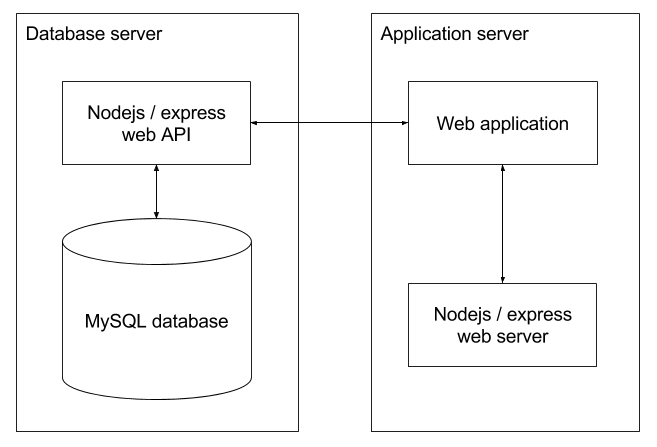
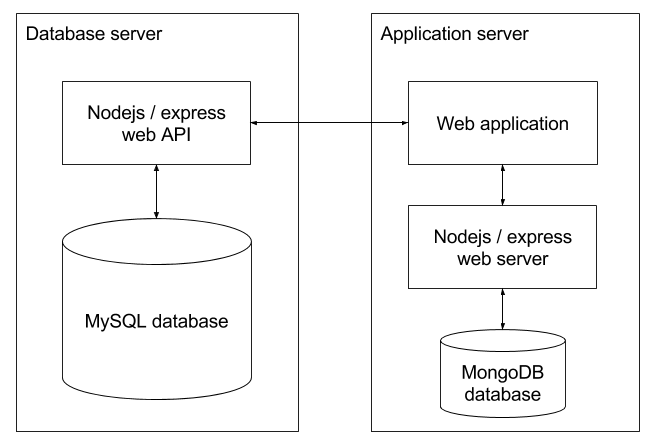
updating tech spec

diff --git a/docs/tech.md b/docs/tech.md
@@ -2,6 +2,8 @@
 
 # Technical Specification
 
+UPDATED: 6th October 2016 - **additions** ~~deletions~~
+
 ## 1 Introduction
 
 ### 1.1 Overview
@@ -11,7 +13,7 @@ This document provides a complete overview of the technical specification Mujo I
 ### 1.2 Related documents
 
 * The [Design specification](design.md) lays out the functionality of the system.
-* The [User requirement specification]() provides the detail of what is required by the user.
+* The [User requirement specification](https://docs.google.com/document/d/1SYVugRCuzjcj8jgR8f8yrp-2E4V5km13pVF3XVbmyXY/edit) provides the detail of what is required by the user.
 
 ### 1.3 Structure
 
@@ -46,14 +48,23 @@ Gets the summary information for the portal:
 ```
 {
   "updated": "YYYY-MM-DD",
-  "count" : {
-    "allpatients" : a,
-    "activepatients" : b,
-    "locations": c,
-    "physios": d,
-    "diagnoses": e,
-    "prescriptions": f
-  }  
+  "count": {
+    "allpatients": a,
+    "activepatients": b,
+    "dischargedpatients": {
+      "reason 1": c,
+      "reason 2": d
+    }
+    "locations": e,
+    "physios": f,
+    "diagnoses": g,
+    "prescriptions": h
+  },
+  "diagnostic": {
+    "age": i,
+    "occupation": j,
+    "diagnoses": k
+  }
 }
 ```
 
@@ -63,10 +74,14 @@ Get the available categories for the top 10 data.
 
 ```
 [
-  "physios",
-  "prescriptions",
-  "diagnoses",
-  ...
+  "locationByNumberOfPatients",
+  "physioByNumberOfPatients",
+  "physioByNumberOfSuccesses",
+  "failureReasonByNumberOfPatients",
+  "deviceByAvgSessionTime",
+  "deviceByBearingLife",
+  "deviceByCableLife",
+  "deviceByLoadFactor"
 ]
 ```
 
@@ -86,6 +101,21 @@ Get the top 10 data for a given category.
 }
 ```
 
+##### 3.2.3.1 GET: /api/top10/all/{category}
+
+**Get the all data for a given category.**
+
+```
+{
+  "title" : "The title",
+  "data" : [
+    {"name" : "The name 1", "value": n1},
+    {"name" : "The name 2", "value": n2},
+    ...
+  ]
+}
+```
+
 #### 3.2.4 GET: /api/distribution/
 
 Get the available categories for the top 10 data.
@@ -95,22 +125,22 @@ Get the available categories for the top 10 data.
   "age",
   "sex",
   "bmi",
-  "timeOfSession"
+  "timeOfSession",
+  "prescribedExerciseFrequency"
 ]
 ```
 
 #### 3.2.5 GET: /api/distribution/{category}
 
-Get the top 10 data for a given category.
+Get the distribution data for a given category.
 
 ```
 {
-  "title" : "The title",
+  "title" : "The title e.g. age distribution",
   "data" : [
-    {"name" : "The name 1", "value": n1},
-    {"name" : "The name 2", "value": n2},
+    {"label" : "0-9", "lower": 0, "value": n1},
+    {"label" : "10-19", "lower": 10, "value": n2},
     ...
-    {"name" : "The name 10", "value": n10}
   ]
 }
 ```
@@ -186,28 +216,96 @@ Returns a full list of diagnoses and counts in the system
 ]
 ```
 
-## 4 Technologies
+#### 3.2.10 GET: /api/sidebar
 
-### 4.1 API
+**Returns the elements in the side bar that the user has permission to view**
+
+```
+["top10", "locations", "distributions", "model"]
+```
+
+## 4 Authentication
+
+### 4.1 Overview
+
+**The web service calls required for Authentication**
+
+### 4.2 User methods
+
+#### 4.2.1 GET: /login
+
+**Returns the login page. All unauthenticated traffic is routed here.**
+
+#### 4.2.2 POST: /login
+
+**Authenticates the user's email and password. Then redirects the user to the page they were originally trying to load, defaulting to /portal**
+
+#### 4.2.3 GET: /changepassword
+
+**Returns the change password screen**
+
+#### 4.2.4 POST: /changepassword
+
+**Changes the user's password**
+
+#### 4.2.5 GET: /signout
+
+**Signs out the user and redirects to the login screen.**
+
+### 4.3 Admin Methods
+
+#### 4.3.1 GET: /admin
+
+**Returns a screen with a list of all currently registered users, with their assigned sites and roles, and links to add, edit and delete.**
+
+#### 4.3.2 GET: /adduser
+
+**Returns a screen to add a user by providing: full name, email address, password, roles and sites.**
+
+#### 4.3.3 POST: /adduser
+
+**Adds the user.**
+
+#### 4.3.4 GET: /delete/:email
+
+**Loads the "are you sure" screen for deleting the user account with the email address :email.**
+
+#### 4.3.5 POST: /delete/:email
+
+**Removes the user with email address :email.**
+
+#### 4.3.6 GET: /edit/:email
+
+**Loads a screen with the user's details to allow changes.**
+
+#### 4.3.7 POST: /edit/:email
+
+**Commits the changes to the user's account.**
+
+## ~~4~~**5** Technologies
+
+### ~~4~~**5**.1 API
 
 The api will be built using [nodejs](https://nodejs.org/en/) and [express](https://expressjs.com/). Communication with the database will be via the npm module [mysql](https://www.npmjs.com/package/mysql).
 
-### 4.2 Web application
+**Authentication will be managed with [passportjs](http://passportjs.org/). With user account stored in a local [MongoDB](https://docs.mongodb.com/) database.**
+
+### ~~4~~**5**.2 Web application
 
 The web app will be served using [nodejs](https://nodejs.org/en/) and [express](https://expressjs.com/). The frontend will be built using [Bootstrap](http://getbootstrap.com/), icons from [Font-awesome](http://fontawesome.io/), side menus using [metisMenu](http://mm.onokumus.com/) and charts using [chart.js](http://www.chartjs.org/).
 
 [NPM](https://www.npmjs.com/) will be the package manager and building and compilation will be managed using [brunch.io](http://brunch.io).
 
-## 5 Testing
+## ~~5~~**6** Testing
 
-### 5.1 Unit testing
+### ~~5~~**6**.1 Unit testing
 
 Unit tests will be built during the construction of the web application. They will be automated via mocha to run prior to build and will also be remotely run on github commit via [travis-ci](https://travis-ci.org/rw251/analytics-portal). Code coverage will be accomplished with [istanbul](http://gotwarlost.github.io/istanbul/).
 
-### 5.2 System Testing
+### ~~5~~**6**.2 System Testing
 
 A system test plan will be produced during construction of the web application and fully signed off before delivery of the software.
 
-## 6 Code hosting
+## ~~6~~**7** Code hosting
 
 All code will be hosted on github at [https://github.com/rw251/analytics-portal](https://github.com/rw251/analytics-portal). Issues, releases and milestones will be tracked here.

diff --git a/docs/design.md b/docs/design.md
@@ -121,6 +121,7 @@ The current planned list of charts is:
 | **Device**               | **Avg session time**   |
 | **Device**               | **Bearing life**       |
 | **Device**               | **Cable life**         |
+| **Device**               | **Load factor**        |
 | **Failure reason**       | **# of patients**      |
 
 **The user can toggle between a table and a bar chart. In table mode they can request to see all categories rather than just the top 10.**
@@ -160,7 +161,7 @@ The number of columns will adapt depending on screen size from a maximum of ~~4~
 
 The user is presented with distributions of key variables.
 
-The current proposal is for histograms for: age, BMI and usage per hour. Also a pie chart for sex.
+The current proposal is for histograms for: age, BMI, ~~and~ usage per hour**, and prescribed exercise frequency**. Also a pie chart for sex.
 
 It is also possible for the user to alter the list of patients displayed in the distributions by adding a series of filters. Precisely what will be useful to filter on is largely dependent on the amount of data captured but it is envisioned that possible filters will include: age, sex, prescription and adherence. `This is considered a nice-to-have feature and priority will be given to other features.`
 
@@ -195,3 +196,32 @@ It will also be possible to specify a patient by one or more of: age, sex, occup
 #### Responsive design
 
 The two column design from the mock-up would collapse to a single column below a certain screen size.
+
+## 3 User management
+
+### 3.1 Overview
+
+**All users are authenticated via a login form. Each user can be assigned to 0, 1 or many device locations. Each user can have 1 or more roles. The current behaviour for the roles is as follows:**
+
+* **admin - this user has the ability to create, edit and delete other users**
+* **mujo - this user can see all parts of the site and no filtering is applied**
+* **operator - for physios: some summary information is hidden / the location page is hidden / where sensible information is filtered to just their patients**
+* **provider - for clinics, vendors etc: some summary information is hidden / where sensible information is filtered to just their site or sites**
+* **payor - for CCGs, insurance etc: some summary information is hidden / where sensible information is filtered to just their site or sites**
+
+### 3.2 User menu
+
+**Once logged in a drop down menu in the top right of the navigation bar will be visible. This will give the following options:**
+
+* **User management (Only visible to admin users)**
+* **Change password**
+* **Log out**
+
+### 3.3 User management pages
+
+**Admin users can create, edit and delete user accounts. There will be four screens for this purpose:**
+
+* **List - a list of all users currently registered with the system together with their assigned sites and roles**
+* **Add - users can be added to the system with the following information: full name, email address, password, assigned roles and assigned sites**
+* **Edit - the information provided in the "add" screen can be edited here**
+* **Delete - user accounts can be deleted**
